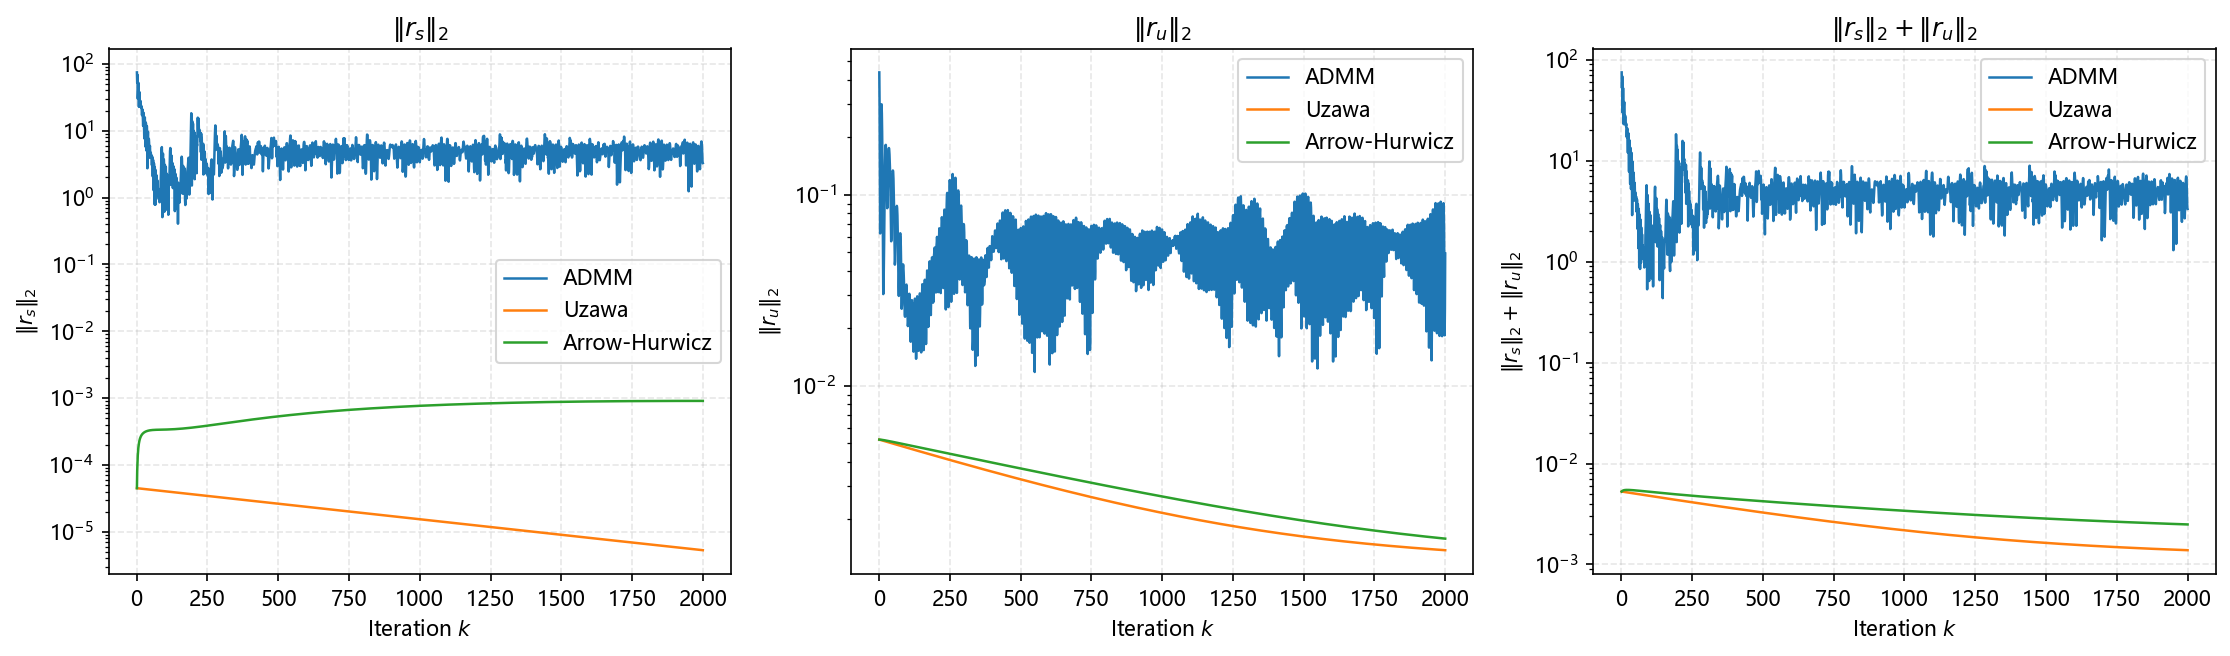
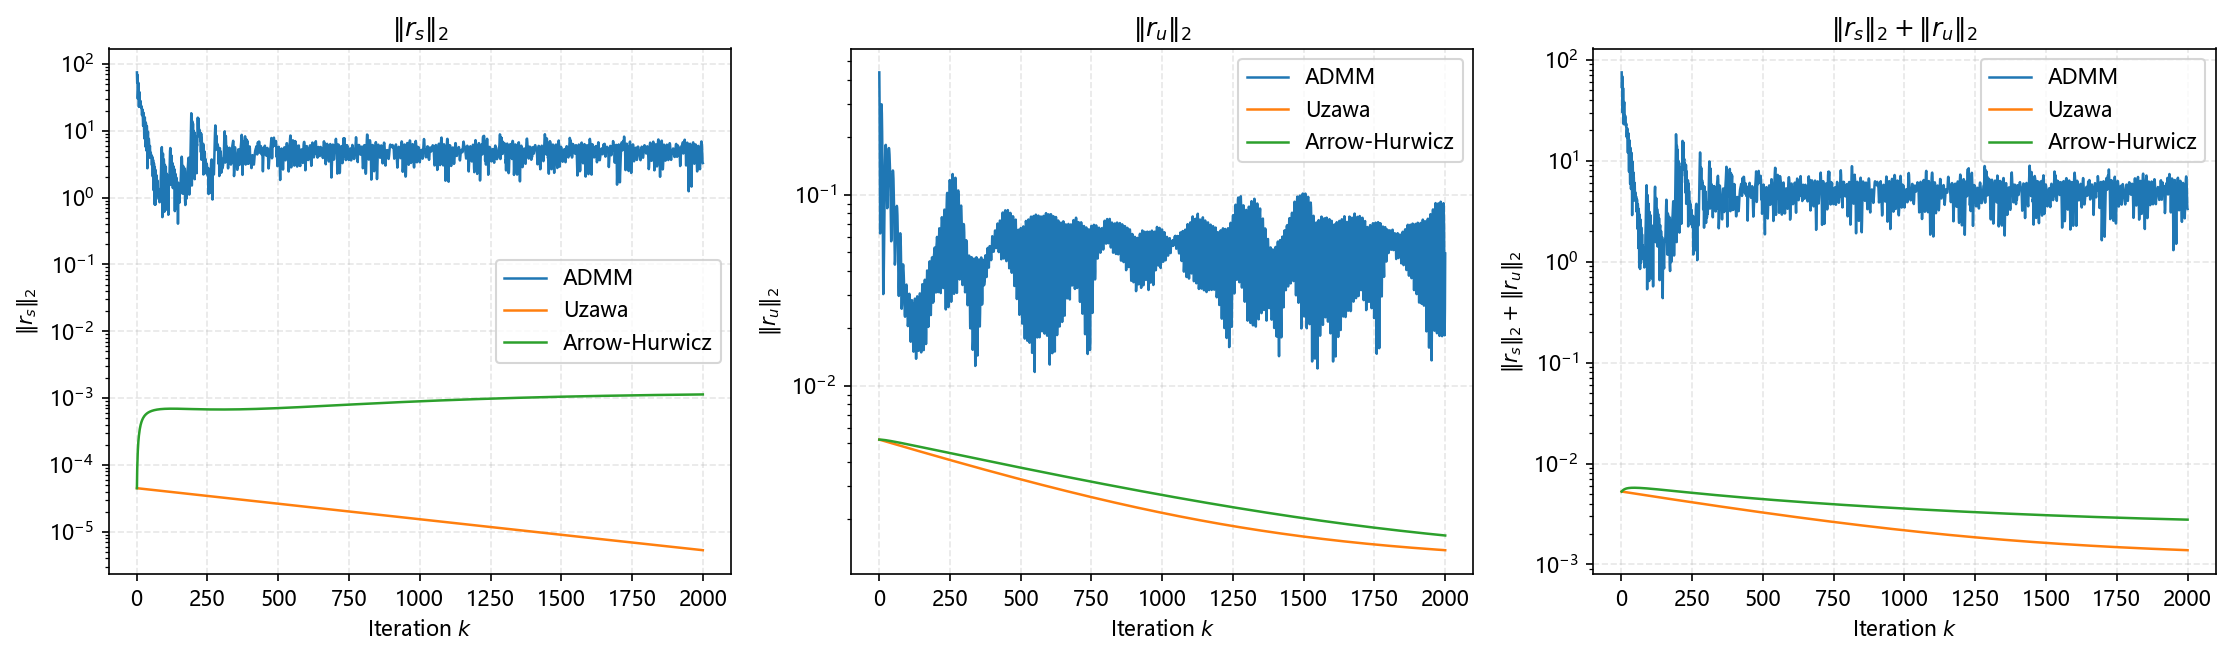
code: remove spectral analysis functions

diff --git a/experiments/saddle-point/saddle-point.py b/experiments/saddle-point/saddle-point.py
@@ -245,58 +245,6 @@ def assemble_system(xi: torch.Tensor, grad_xi: torch.Tensor,
 
 
 # ---------------------------------------------------------------------------
-# Diagnostics: spectral analysis
-# ---------------------------------------------------------------------------
-
-
-def estimate_schur_spectral_radius(A, B, rho=1e-6):
-    """Estimate spectral radius of S_u = B^T (A+rho*I)^{-1} B via power iteration.
-
-    Returns (lambda_max, L_cholesky).
-    """
-    dim_s = A.shape[0]
-    dim_u = B.shape[1]
-    A_reg = A + rho * torch.eye(dim_s, dtype=DTYPE, device=device)
-    L = torch.linalg.cholesky(A_reg)
-
-    v = torch.randn(dim_u, dtype=DTYPE, device=device)
-    v = v / v.norm()
-
-    for _ in range(100):
-        w = B @ v
-        z = torch.cholesky_solve(w.unsqueeze(1), L).squeeze(1)
-        u_new = B.T @ z
-        lam = v.dot(u_new)
-        v = u_new / u_new.norm()
-
-    return lam.item(), L
-
-
-def estimate_jacobi_spectral_radius(A, rho=1e-6):
-    """Estimate spectral radius of Jacobi iteration matrix for (A+rho*I).
-
-    R = I - diag(A+rho*I)^{-1} (A+rho*I). Uses power iteration on R.
-    """
-    dim_s = A.shape[0]
-    A_reg = A + rho * torch.eye(dim_s, dtype=DTYPE, device=device)
-    d_inv = 1.0 / A_reg.diag()
-
-    v = torch.randn(dim_s, dtype=DTYPE, device=device)
-    v = v / v.norm()
-
-    for _ in range(200):
-        # R @ v = v - d_inv * (A_reg @ v)
-        Rv = v - d_inv * (A_reg @ v)
-        lam = v.dot(Rv)
-        nrm = Rv.norm()
-        if nrm < 1e-15:
-            break
-        v = Rv / nrm
-
-    return abs(lam.item())
-
-
-# ---------------------------------------------------------------------------
 # KKT residuals & L2 errors
 # ---------------------------------------------------------------------------
 def compute_kkt_residuals(A, B, F, s, u):
@@ -389,7 +337,7 @@ def run_direct_solve(A, B, F):
 # ---------------------------------------------------------------------------
 # ADMM (Adam optimizer, full-batch)
 # ---------------------------------------------------------------------------
-def run_admm(A, B, F, K_max=2000, lr=0.02, betas=(0.9, 0.98),
+def run_admm(A, B, F, K_max=2000, eta_admm=0.02, beta_adam=(0.9, 0.98),
              tol=1e-6, eval_callback=None):
     """ADMM with manual Adam: alternate u-ascent / s-descent."""
     dim_s = A.shape[0]
@@ -404,7 +352,7 @@ def run_admm(A, B, F, K_max=2000, lr=0.02, betas=(0.9, 0.98),
     m_u = torch.zeros_like(u)
     v_u = torch.zeros_like(u)
 
-    b1, b2 = betas
+    b1, b2 = beta_adam
     t0 = time.perf_counter()
 
     for k in range(1, K_max + 1):
@@ -413,14 +361,14 @@ def run_admm(A, B, F, K_max=2000, lr=0.02, betas=(0.9, 0.98),
         v_u = b2 * v_u + (1 - b2) * g_u ** 2
         m_hat_u = m_u / (1 - b1 ** k)
         v_hat_u = v_u / (1 - b2 ** k)
-        u = u + lr * m_hat_u / (v_hat_u.sqrt() + eps_adam)
+        u = u + eta_admm * m_hat_u / (v_hat_u.sqrt() + eps_adam)
 
         g_s = A @ s + B @ u
         m_s = b1 * m_s + (1 - b1) * g_s
         v_s = b2 * v_s + (1 - b2) * g_s ** 2
         m_hat_s = m_s / (1 - b1 ** k)
         v_hat_s = v_s / (1 - b2 ** k)
-        s = s - lr * m_hat_s / (v_hat_s.sqrt() + eps_adam)
+        s = s - eta_admm * m_hat_s / (v_hat_s.sqrt() + eps_adam)
 
         if eval_callback is not None:
             eval_callback(k, s, u)
@@ -438,14 +386,13 @@ def run_admm(A, B, F, K_max=2000, lr=0.02, betas=(0.9, 0.98),
 # Uzawa (Cholesky pre-factorization)
 # ---------------------------------------------------------------------------
 def run_uzawa(A, B, F, K_max=2000, eta_u=1e-2, rho=1e-6,
-              tol=1e-6, eval_callback=None, L=None):
-    """Uzawa iteration with pre-computed Cholesky factorization."""
+              tol=1e-6, eval_callback=None):
+    """Uzawa iteration with Cholesky factorization."""
     dim_s = A.shape[0]
     dim_u = B.shape[1]
 
-    if L is None:
-        A_reg = A + rho * torch.eye(dim_s, dtype=DTYPE, device=device)
-        L = torch.linalg.cholesky(A_reg)
+    A_reg = A + rho * torch.eye(dim_s, dtype=DTYPE, device=device)
+    L = torch.linalg.cholesky(A_reg)
 
     s = torch.zeros(dim_s, dtype=DTYPE, device=device)
     u = torch.zeros(dim_u, dtype=DTYPE, device=device)
@@ -507,13 +454,11 @@ def run_arrow_hurwicz(A, B, F, K_max=2000, eta_s=1.0, eta_u=1e-2, rho=1e-6,
 # Helper: run all algorithms on same system
 # ---------------------------------------------------------------------------
 def run_all_algorithms(A, B, F, psi_test, xi_test, u_exact, sigma_exact,
-                       K_max=2000, rho=1e-6, eval_every=50):
-    """Run Direct, ADMM, Uzawa, Arrow-Hurwicz and collect histories.
-
-    Step sizes for Uzawa and Arrow-Hurwicz are auto-tuned via spectral analysis.
-    """
+                       K_max=2000, eval_every=50, rho=1e-6,
+                       eta_admm=0.02, beta_adam=(0.9, 0.98),
+                       eta_u_uzawa=1e-2, eta_s_ah=3e-3, eta_u_ah=1e-2):
+    """Run Direct, ADMM, Uzawa, Arrow-Hurwicz and collect histories."""
     results = {}
-    dim_s = A.shape[0]
 
     # --- Direct solve (baseline) ---
     print("  Running Direct solve...")
@@ -528,28 +473,11 @@ def run_all_algorithms(A, B, F, psi_test, xi_test, u_exact, sigma_exact,
     print(f"    Done in {wt:.2f}s, final KKT: "
           f"||r_s||={rs:.2e}, ||r_u||={ru:.2e}, total={rs+ru:.2e}")
 
-    # --- Spectral analysis ---
-    print("  Estimating Schur complement spectral radius...")
-    lam_max, L_chol = estimate_schur_spectral_radius(A, B, rho=rho)
-    eta_u_safe = 1.5 / lam_max
-    print(f"    lambda_max(S_u) = {lam_max:.4e}, safe eta_u = {eta_u_safe:.4e}")
-
-    print("  Estimating Jacobi spectral radius for Arrow-Hurwicz...")
-    rho_jac = estimate_jacobi_spectral_radius(A, rho=rho)
-    eta_s_safe = 1.5 / max(rho_jac, 1.0) if rho_jac > 1.0 else 1.0
-    print(f"    rho(Jacobi) = {rho_jac:.4e}, safe eta_s = {eta_s_safe:.4e}")
-
-    eta_u_uzawa = min(1e-2, eta_u_safe)
-    eta_u_ah = min(1e-2, eta_u_safe)
-    eta_s_ah = min(1.0, eta_s_safe)
-    print(f"    Uzawa: eta_u={eta_u_uzawa:.4e}")
-    print(f"    Arrow-Hurwicz: eta_s={eta_s_ah:.4e}, eta_u={eta_u_ah:.4e}")
-
     for name, runner, kwargs in [
         ("ADMM", run_admm,
-         dict(K_max=K_max, lr=0.02, betas=(0.9, 0.98))),
+         dict(K_max=K_max, eta_admm=eta_admm, beta_adam=beta_adam)),
         ("Uzawa", run_uzawa,
-         dict(K_max=K_max, eta_u=eta_u_uzawa, rho=rho, L=L_chol)),
+         dict(K_max=K_max, eta_u=eta_u_uzawa, rho=rho)),
         ("Arrow-Hurwicz", run_arrow_hurwicz,
          dict(K_max=K_max, eta_s=eta_s_ah, eta_u=eta_u_ah, rho=rho)),
     ]:
@@ -701,10 +629,16 @@ if __name__ == "__main__":
     E, nu = 1.0, 0.3
     gamma = 2.0
     M = 256
+    ablation_M_list = [64, 128, 256, 512, 1024]
     Q_train = 20000
     Q_test = 10000
     K_max = 2000
     rho = 1e-6
+    eta_admm = 2e-02
+    beta_adam = (0.9, 0.98)
+    eta_u_uzawa = 1e-02
+    eta_s_ah = 3e-03
+    eta_u_ah = 1e-02
 
     mu, lam = compute_lame_constants(E, nu)
     S = build_compliance_matrix(E, nu)
@@ -753,7 +687,9 @@ if __name__ == "__main__":
     # --- Run all algorithms (including Direct solve) ---
     print(f"\n=== Main experiment (M={M}, Q=20000) ===")
     results = run_all_algorithms(A, B, F, psi_test, xi_test, u_exact, sigma_exact,
-                                 K_max=K_max, rho=rho, eval_every=50)
+                                 K_max=K_max, eval_every=50, rho=rho,
+                                 eta_admm=eta_admm, beta_adam=beta_adam,
+                                 eta_u_uzawa=eta_u_uzawa, eta_s_ah=eta_s_ah, eta_u_ah=eta_u_ah)
 
     # --- Plot KKT convergence (iterative methods only) ---
     print("\nGenerating plots...")
@@ -792,7 +728,6 @@ if __name__ == "__main__":
 
     # --- Ablation: M (all 4 methods) ---
     print("\n=== Ablation: feature count M ===")
-    ablation_M_list = [64, 128, 256, 512]
     ablation_M_results = {}  # { M: { method: {rel_u, rel_sigma, kkt_total} } }
 
     for M_abl in ablation_M_list:
@@ -810,7 +745,9 @@ if __name__ == "__main__":
         # Run all 4 methods; eval_every=K_max to only record final L2
         abl_results = run_all_algorithms(
             A_abl, B_abl, F_abl, psi_test_abl, xi_test_abl,
-            u_exact, sigma_exact, K_max=K_max, rho=rho, eval_every=K_max,
+            u_exact, sigma_exact, K_max=K_max, eval_every=K_max, rho=rho,
+            eta_admm=eta_admm, beta_adam=beta_adam,
+            eta_u_uzawa=eta_u_uzawa, eta_s_ah=eta_s_ah, eta_u_ah=eta_u_ah,
         )
 
         ablation_M_results[M_abl] = {}
